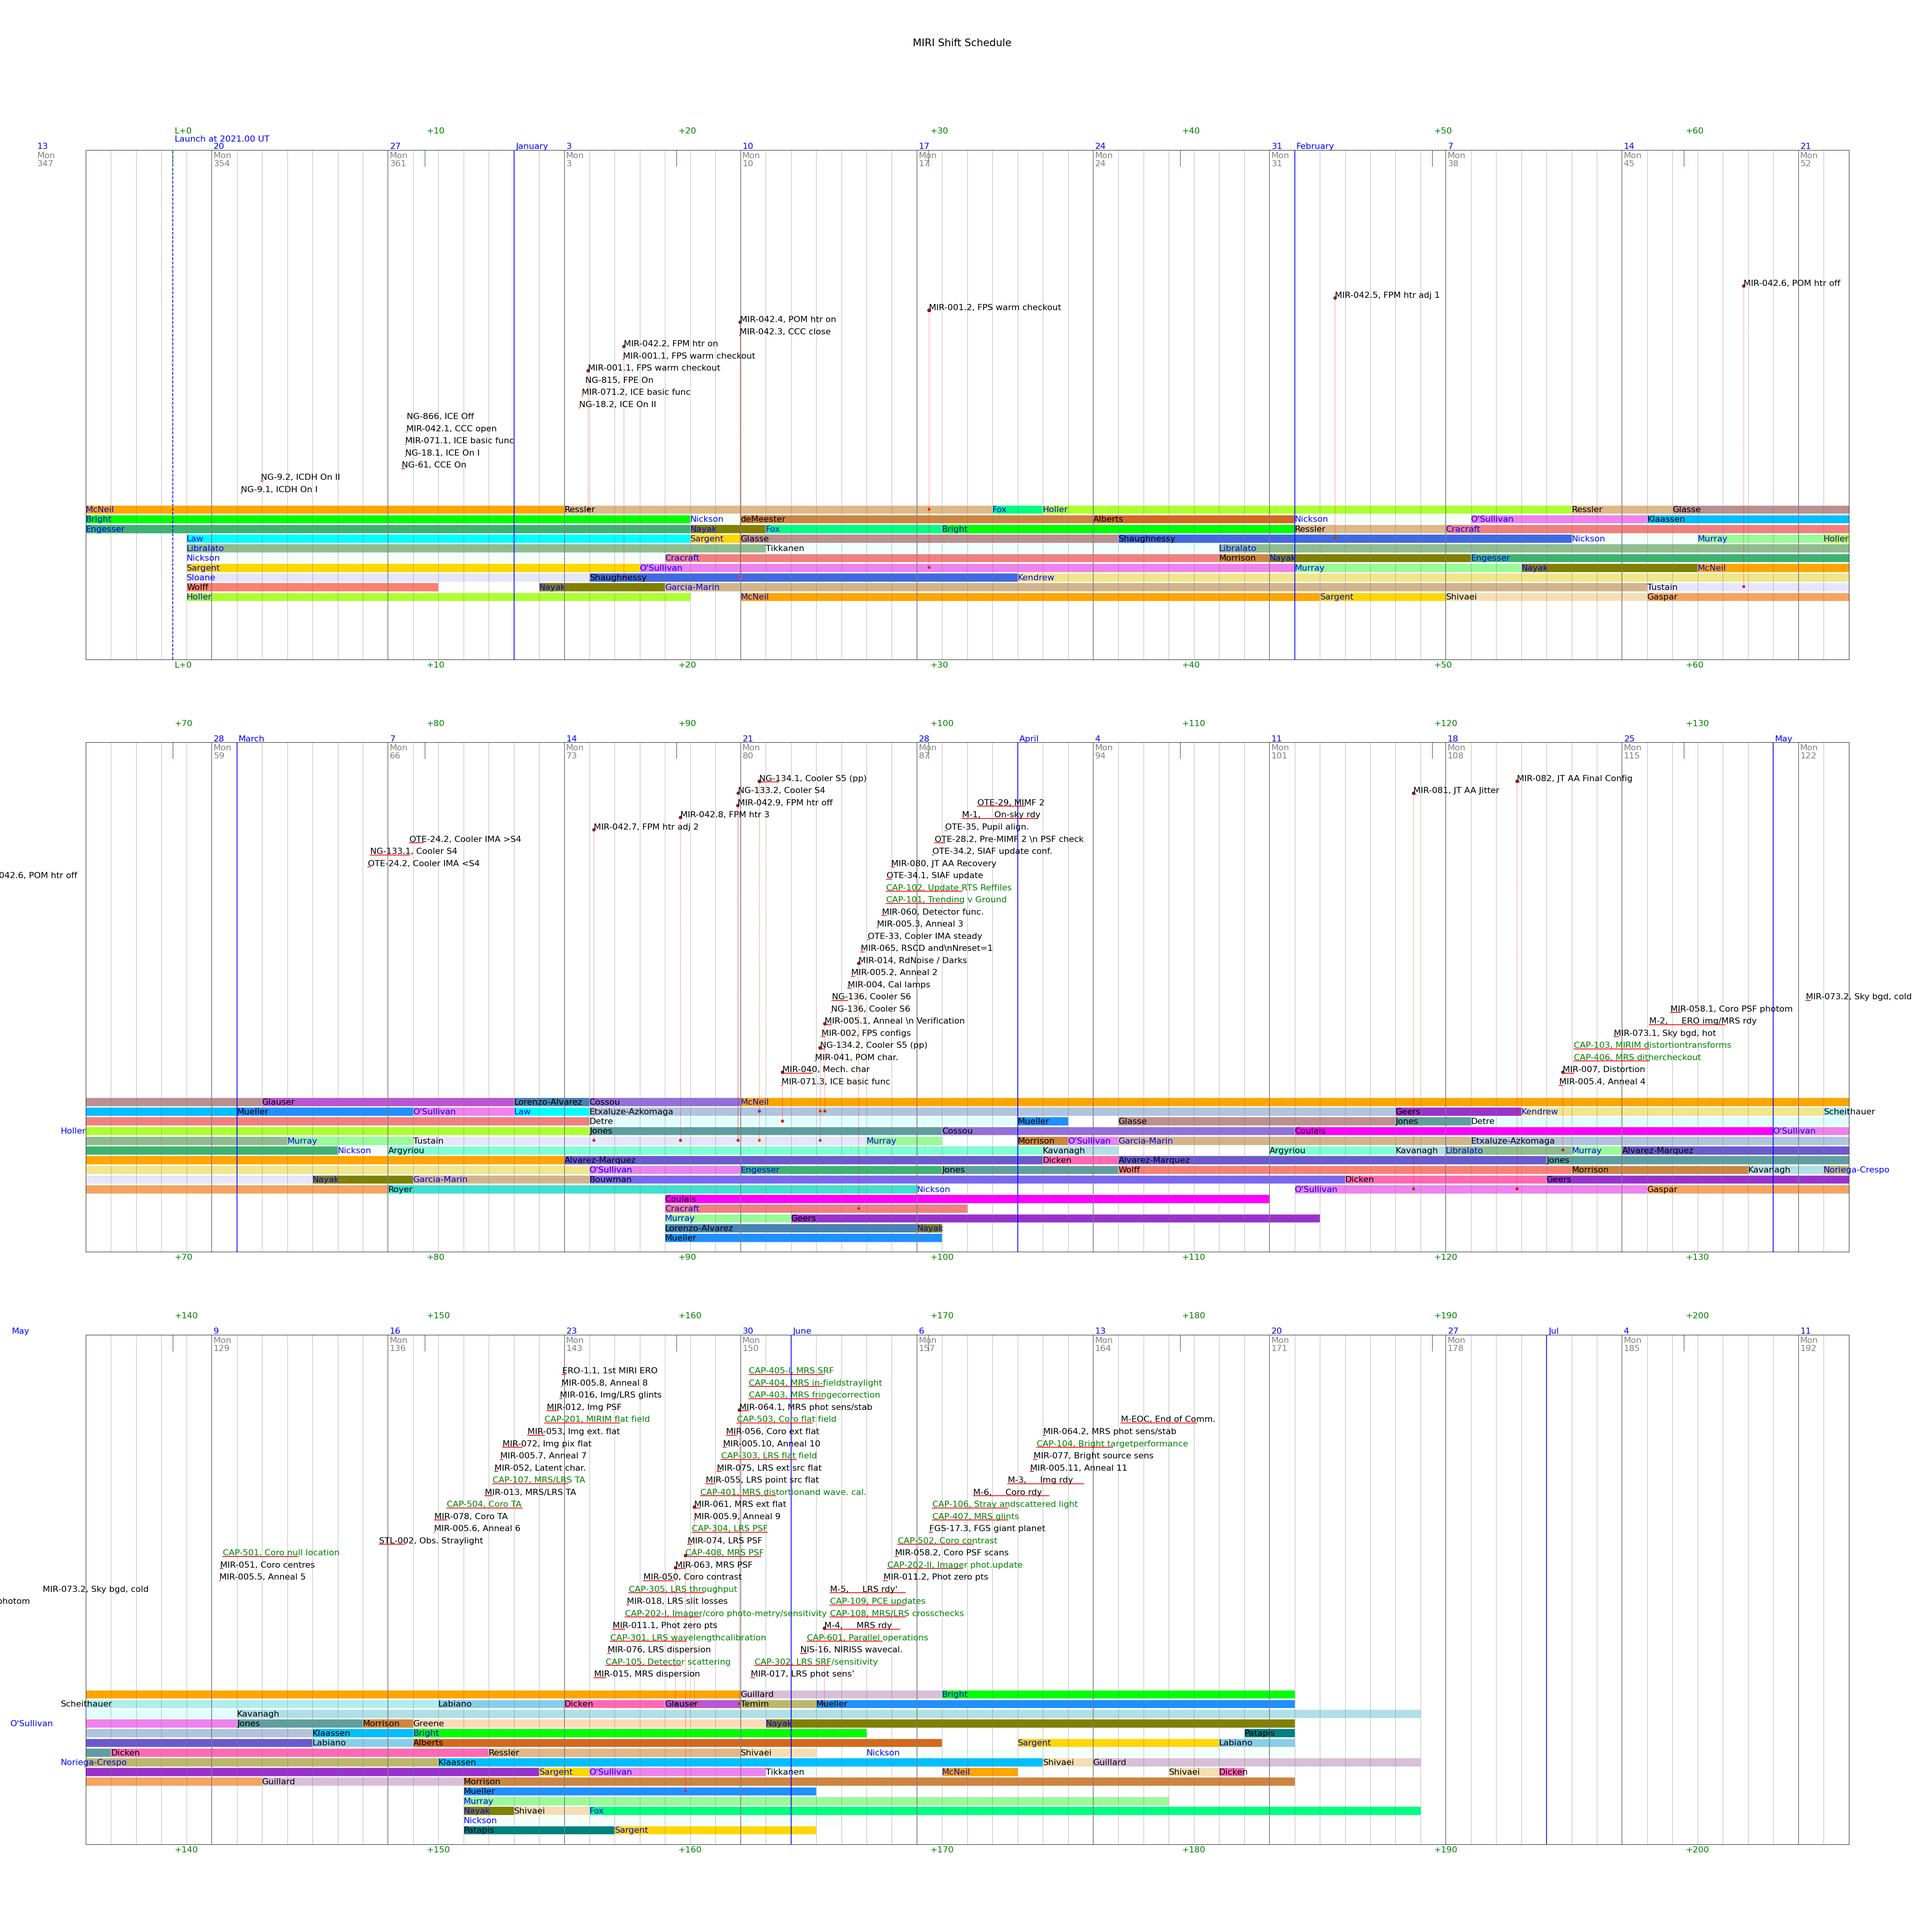
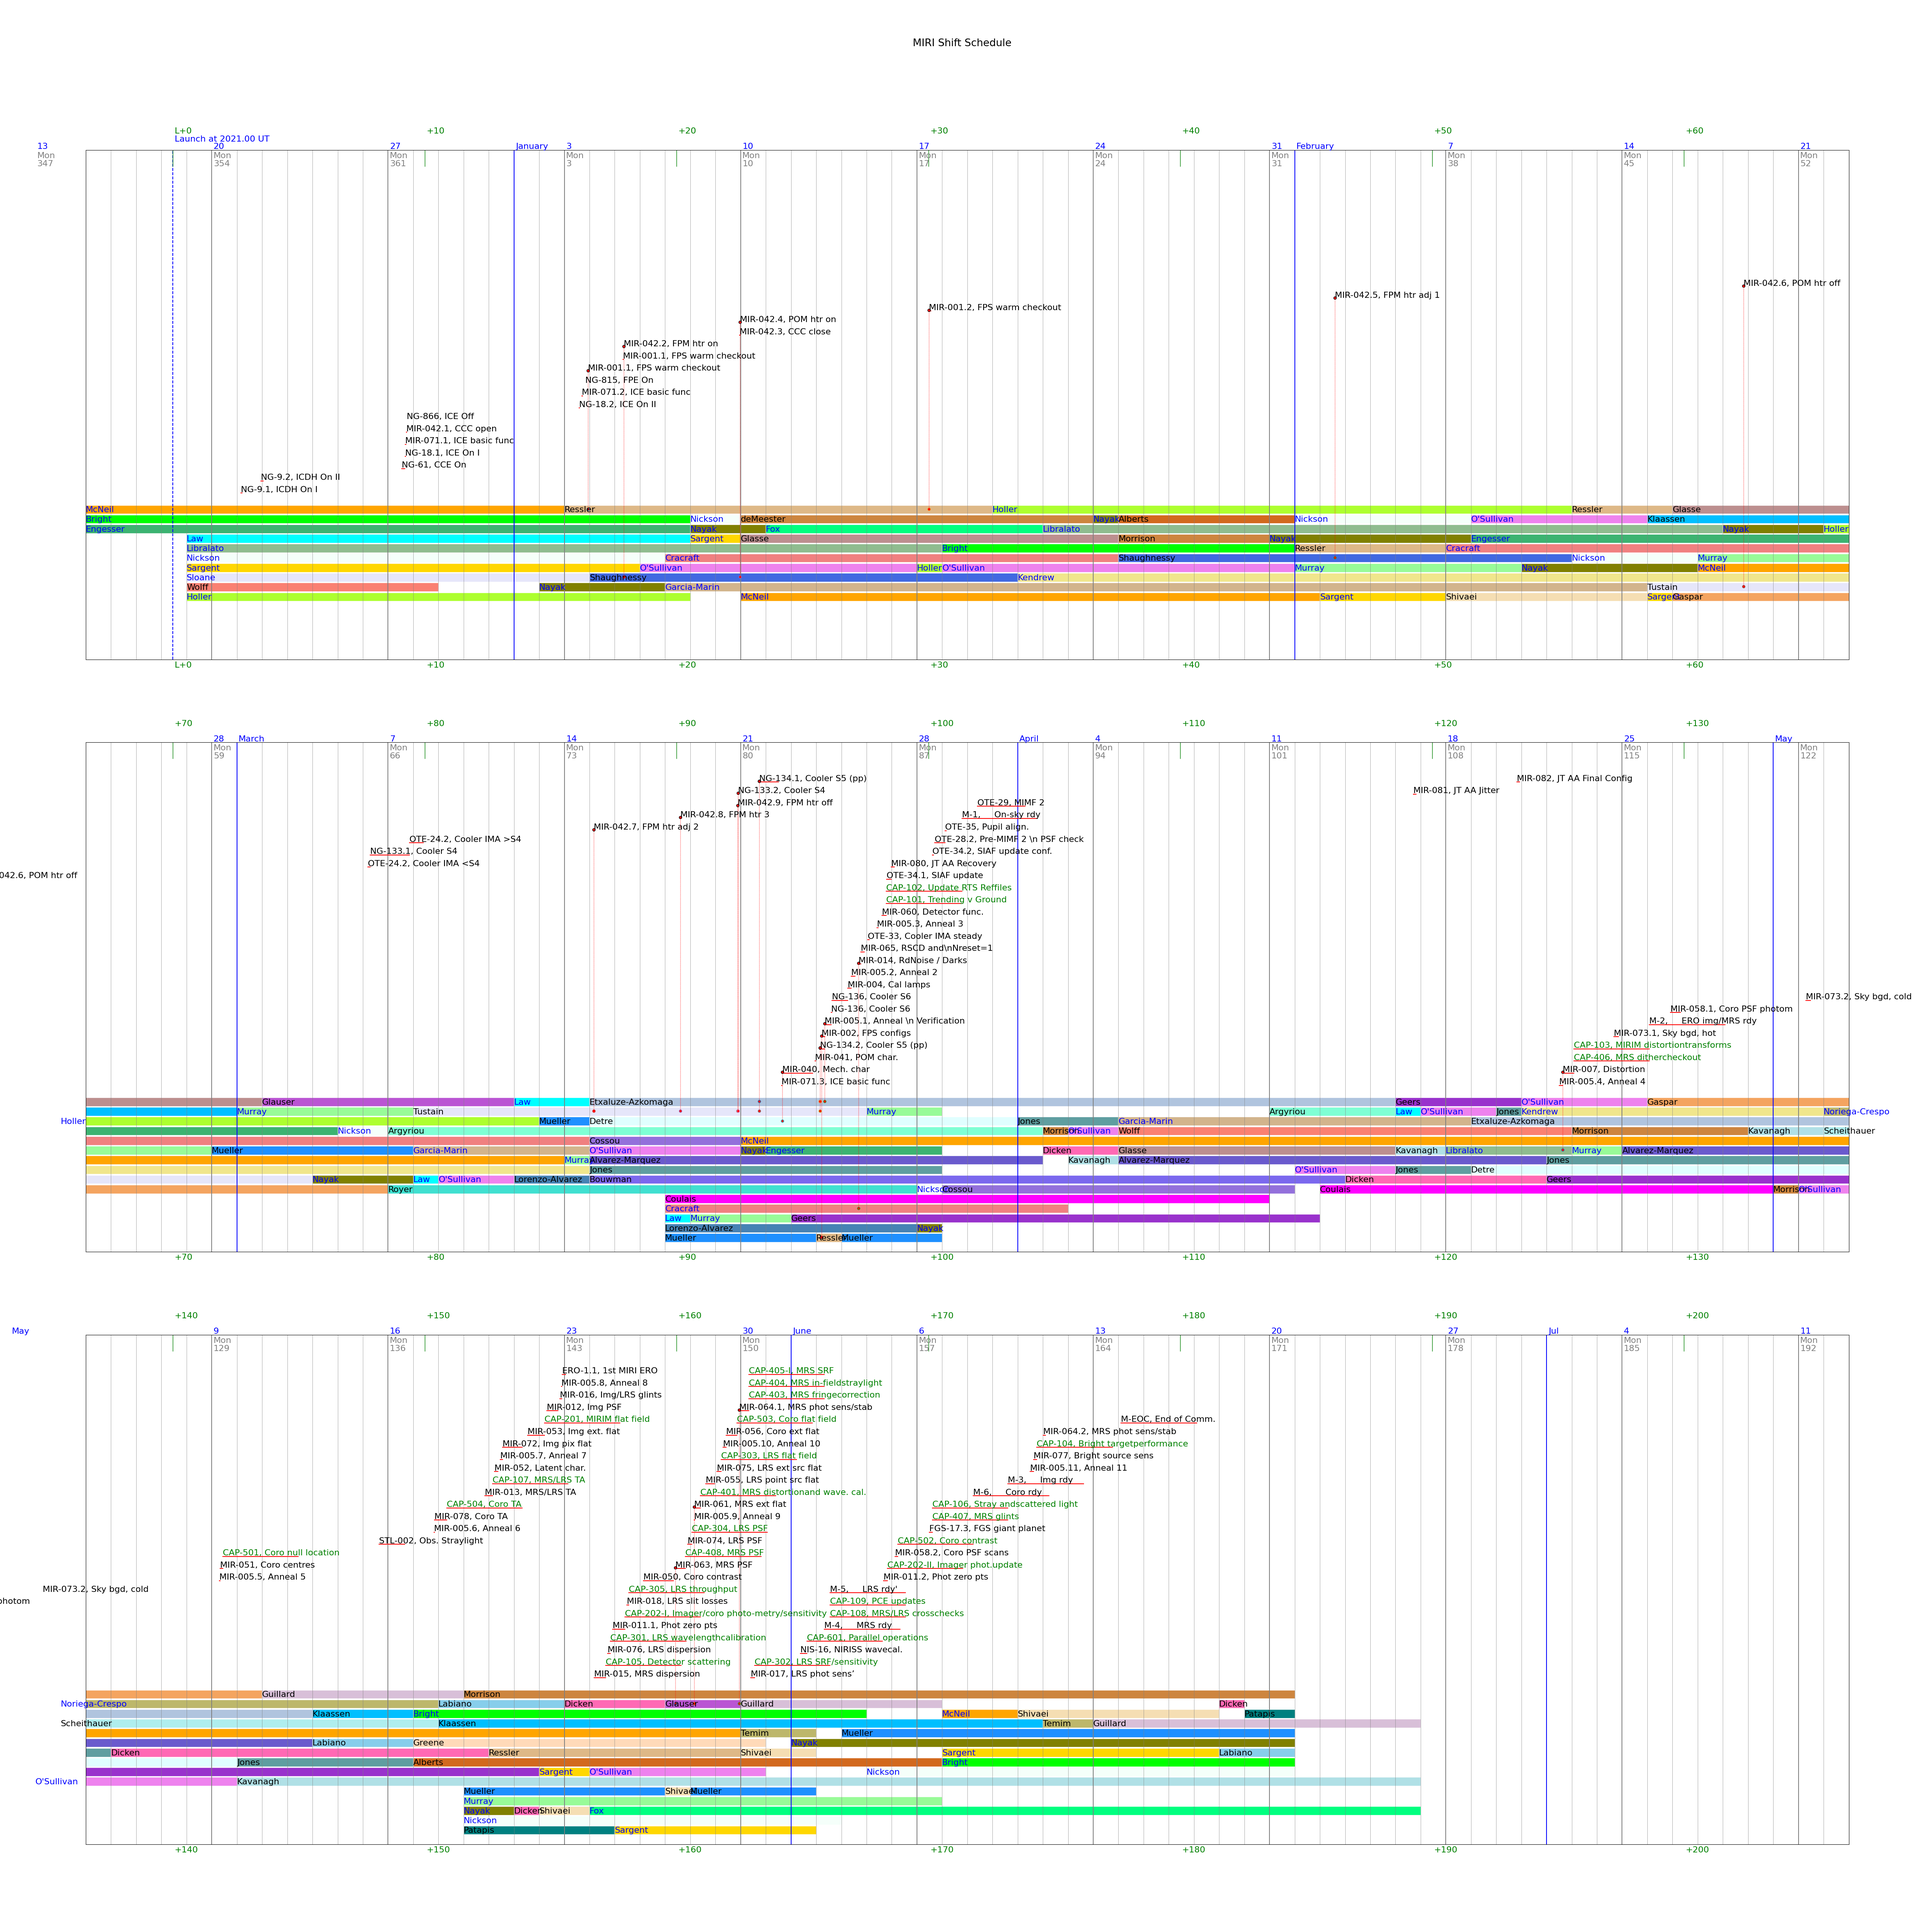
Fixed bug in 'rota' plot (by removing call to ShiftPlan.remove_singles).

Changed region(s): [[0.0312, 0.5616, 0.9672, 0.6552], [0.0312, 0.8736, 0.7488, 0.936], [0.4056, 0.2496, 0.9672, 0.312]]

diff --git a/source/shift_plan.py b/source/shift_plan.py
@@ -582,23 +582,6 @@ class ShiftPlan:
         return tasks
 
     @staticmethod
-    def getLastDow(**kwargs):
-        md = kwargs.get('mission_day', None)          # Mission day
-        dows = kwargs.get('dows', [1, 4])             # Good start days of week (Tues/Fri)
-
-        md_monday = ShiftPlan.launchdoy_last_monday - ShiftPlan.launchdoy
-        dow = (md - md_monday) % 7
-        d = dow
-        while d > dow - 7:
-            is_valid = d in dows
-            if is_valid:
-                return md
-            md -= 1
-            d -= 1
-            d = d if d >= 0 else 6
-        return None
-
-    @staticmethod
     def _ymd_to_doy(year, month, dom):
         doms = [0, 31, 28, 31, 30, 31, 30, 31, 31, 30, 31, 30, 31]
         if year % 400 == 0:     # Trap leap years

diff --git a/source/timeliner.py b/source/timeliner.py
@@ -64,10 +64,10 @@ rota = ShiftPlan.allocate_tasks(rota, 'CAR')
 rota = ShiftPlan.allocate_remaining(rota)
 ShiftPlan.plot_staff_schedules(name='s4.png')
 #ShiftPlan.plot_rota(rota, 'r4')
-rota = ShiftPlan.tidy_rota(rota)
 ShiftPlan.plot_staff_schedules(name='s5.png')
+rota = ShiftPlan.tidy_rota(rota)
 #ShiftPlan.plot_rota(rota, 'r5')
-rota = ShiftPlan.remove_singles(rota)
+#rota = ShiftPlan.remove_singles(rota)
 ShiftPlan.test_rota(rota)
 ShiftPlan.plot_staff_schedules(name='staff_schedule.png', show_greyout=False)
 ShiftPlan.plot_rota(rota, 'rota')
